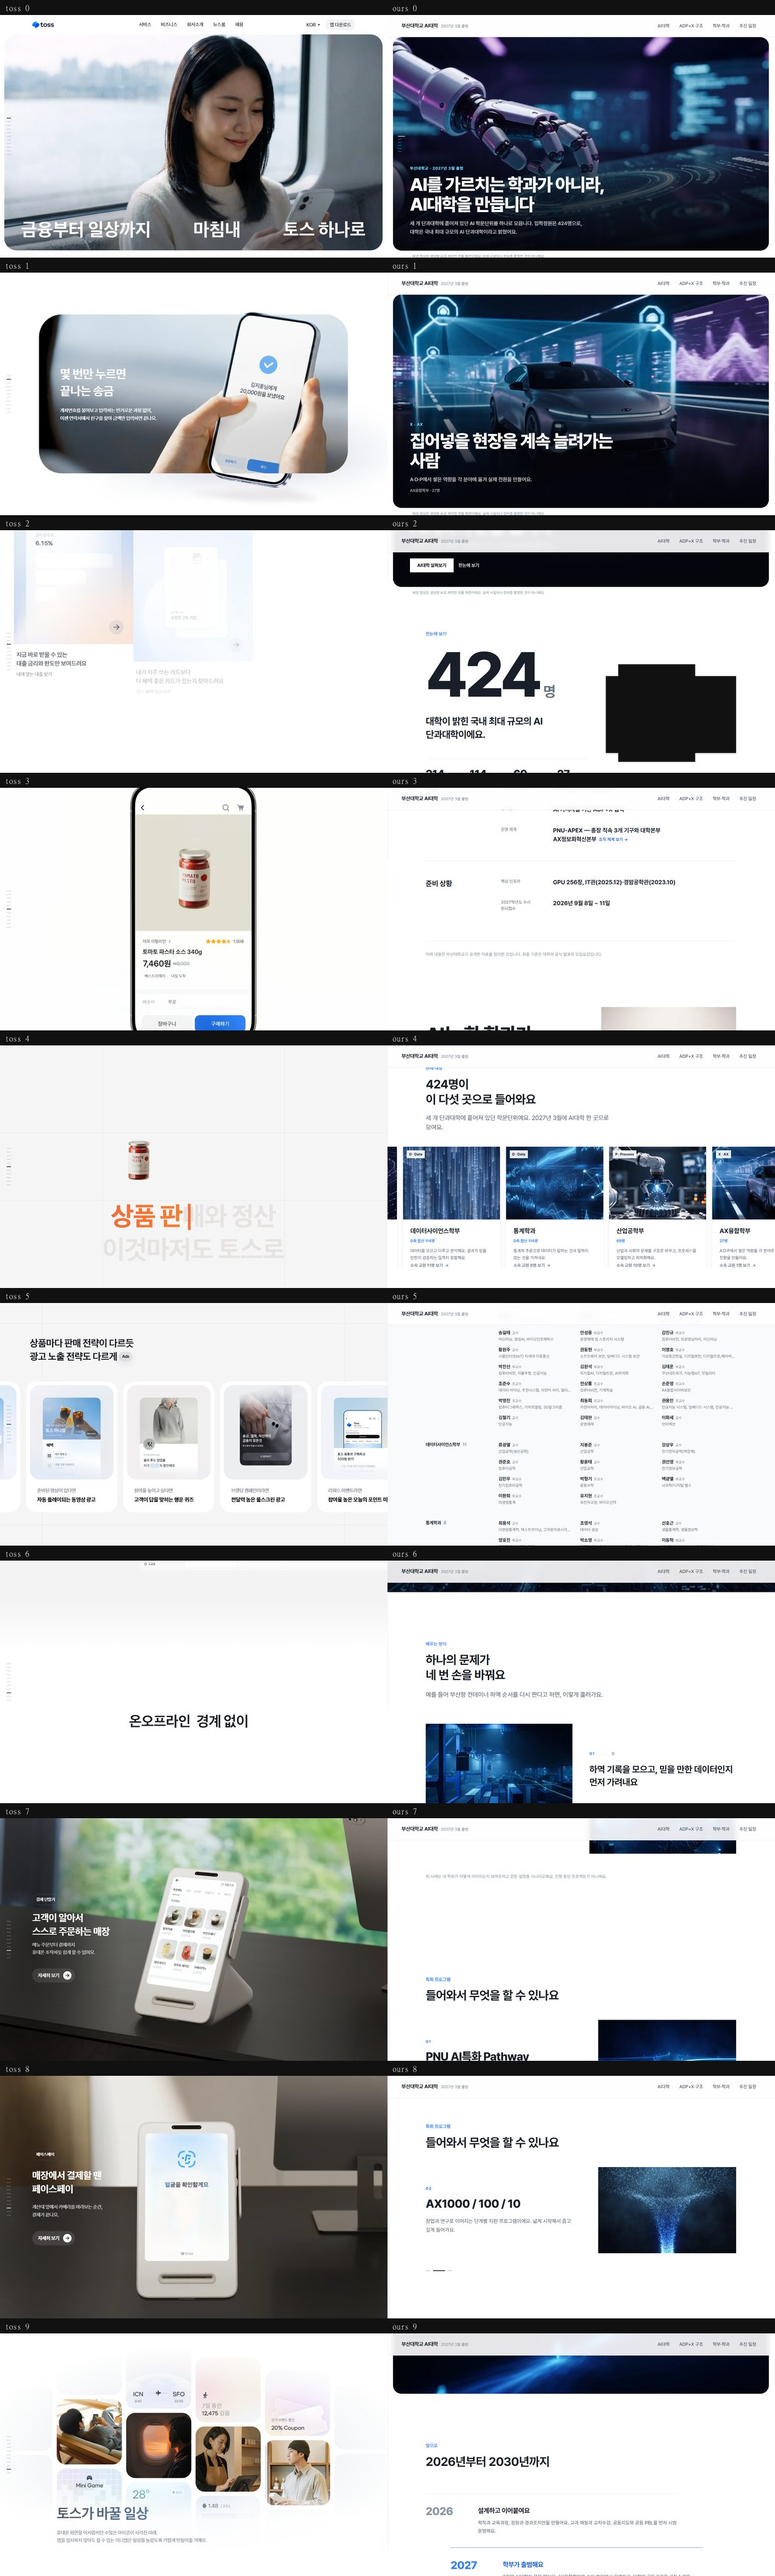
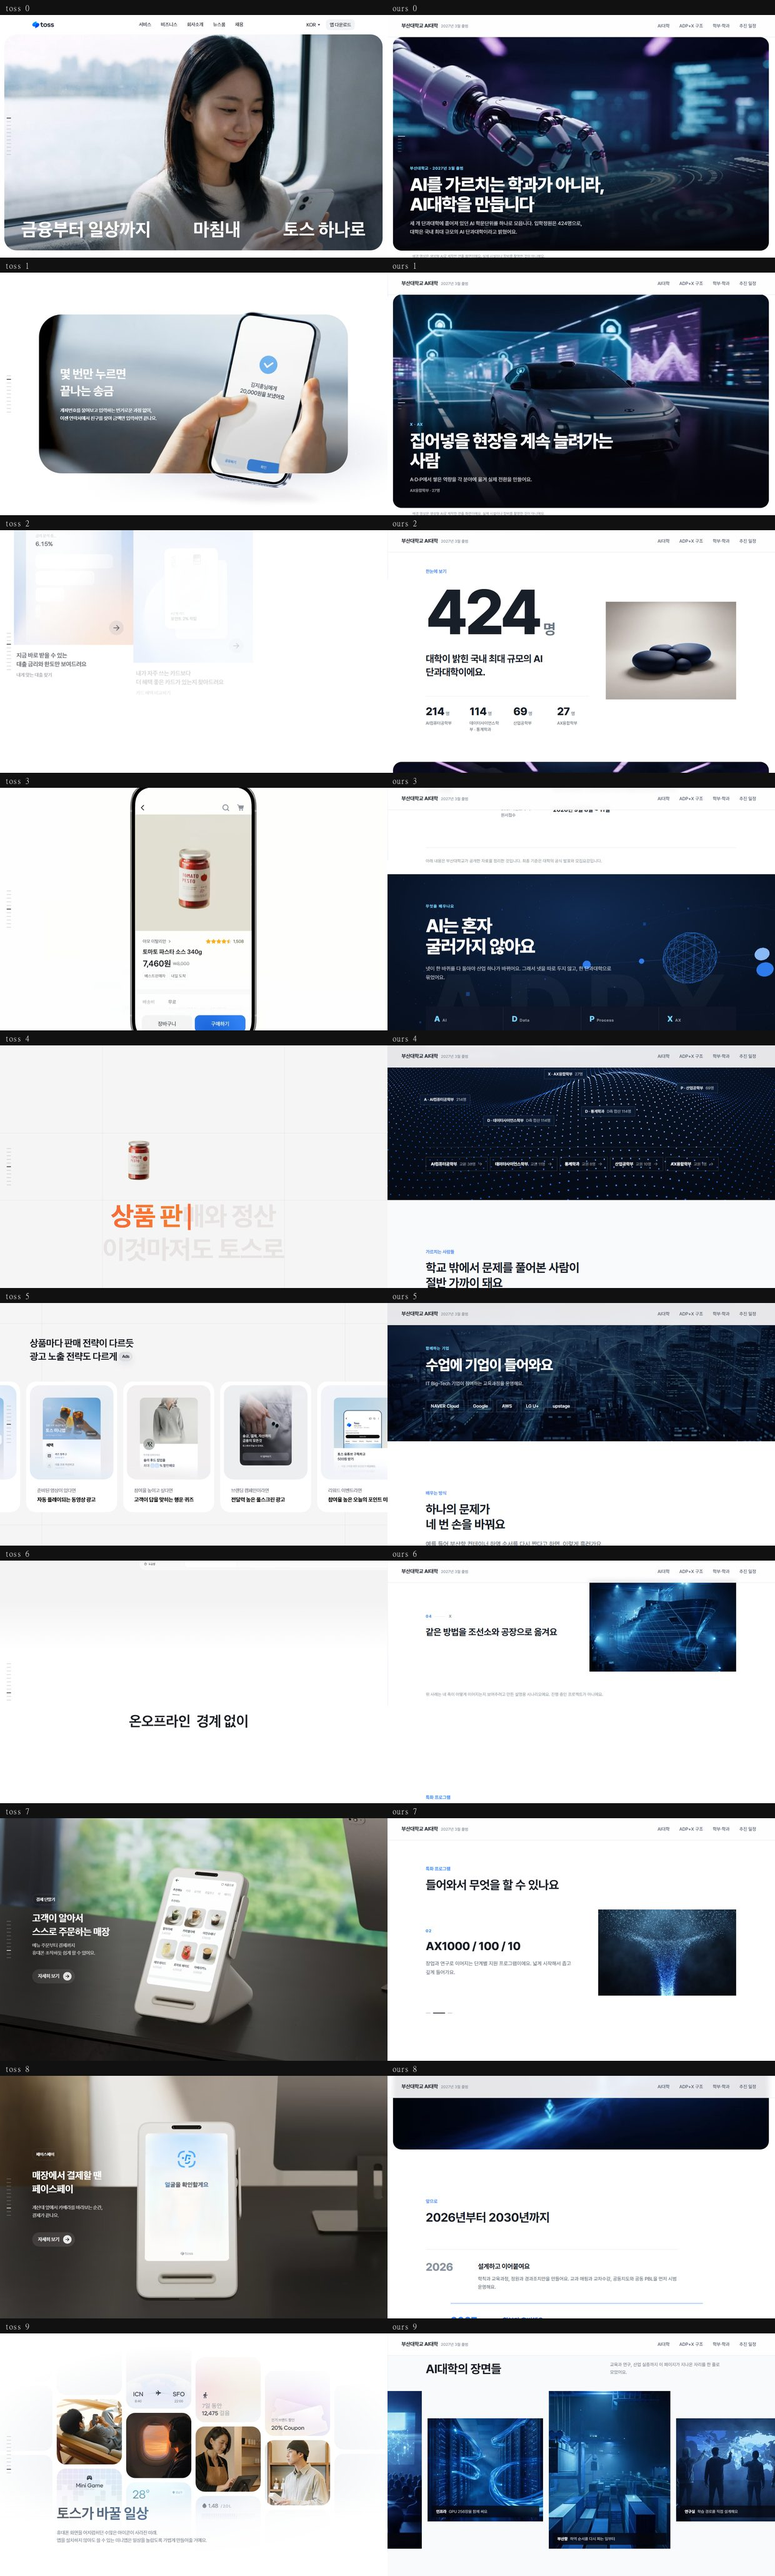
새 절 셋을 좁은 화면에서 고친다
33회차에 three.js 두 절과 갤러리를 붙이면서 가로 넘침만 확인하고 실제 화면은
보지 않았다. 390px 로 훑으니 하나가 깨져 있었다.

[파동 표식이 링크 위에 겹친다] 표식 자리를 비율로 박아뒀는데, 390px 에서는
그 비율이 아래 학부 링크 목록과 같은 자리를 가리킨다. 상자 넷이 서로 포개져
어느 것도 읽히지 않았다.

  좁은 화면에서는 표식을 감춘다. 이름은 아래 링크 목록이 이미 말하므로 잃는
  정보가 없고, 작은 화면에서는 파동만 보이는 편이 낫다. 넓은 화면은 그대로다
  (display: none / block 로 확인).

[본문이 파동 마루에 걸린다] 제목 아래 문장이 앉는 높이로 파동 마루가 올라오는
순간이 있어, 점이 촘촘한 자리에서 흰 글자가 묻혔다. 위쪽 46% 만 눌러 어둡게
하고 아래는 건드리지 않았다.

궤도 절과 갤러리는 좁은 화면에서 문제가 없었다. 궤도는 카드가 세로로 쌓이고
코어가 가운데로 오며, 갤러리는 손가락으로 미는 가로 스크롤이 그대로 동작한다.

Claude-Session: https://claude.ai/code/session_01DneFDYxx25DjwNJdj8uLH7

diff --git a/src/scenes/ConnectScene.jsx b/src/scenes/ConnectScene.jsx
@@ -51,6 +51,16 @@ export default function ConnectScene() {
     >
       <ParticleField kind="wave" nodes={nodes} className="absolute inset-0" />
 
+      {/*
+        글이 앉는 위쪽만 눌러 어둡게. 파동 마루가 제목 아래 문장과 같은 높이로
+        올라오는 순간이 있어, 점이 촘촘한 자리에서는 흰 글자가 읽히지 않는다.
+        아래쪽은 건드리지 않아 파동이 그대로 보인다.
+      */}
+      <div
+        aria-hidden="true"
+        className="pointer-events-none absolute inset-x-0 top-0 h-[46%] bg-gradient-to-b from-[#050a14] via-[#050a14]/70 to-transparent"
+      />
+
       <div className="edge relative flex min-h-[96svh] flex-col justify-start pb-24 pt-24 md:pt-28">
         <p className="text-[13px] font-bold tracking-[0.12em] text-sky-300">2027.03 · PNU COLLEGE OF AI</p>
         <h2

diff --git a/src/components/ParticleField.jsx b/src/components/ParticleField.jsx
@@ -138,7 +138,12 @@ export default function ParticleField({ kind = 'wave', className = '', nodes = [
         style={{ opacity: ready ? 1 : 0 }}
       />
       {nodes.length > 0 && (
-        <ul className="pointer-events-none absolute inset-0">
+        /*
+          좁은 화면에서는 표식을 감춘다. 자리를 비율로 박아뒀는데 390px 에서는
+          그 비율이 아래 링크 목록과 같은 자리를 가리켜 상자 넷이 서로 겹쳤다.
+          이름은 목록이 이미 말하므로 잃는 정보가 없다.
+        */
+        <ul className="pointer-events-none absolute inset-0 hidden md:block">
           {nodes.map((node) => (
             <li
               key={node.label}
